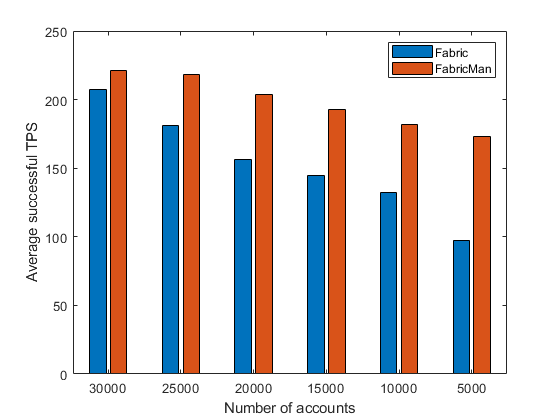
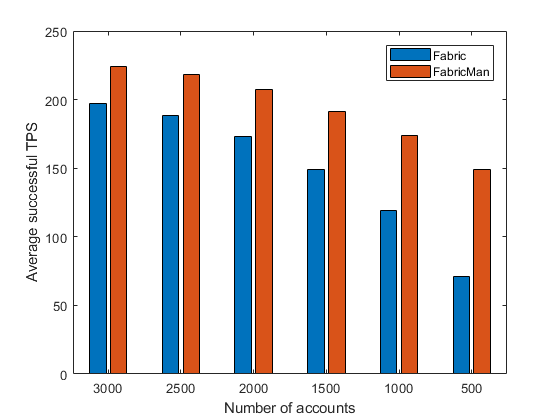
Site updated: 2024-02-23 18:17:11

diff --git a/Paper-FabricMan/index.html b/Paper-FabricMan/index.html
@@ -40,7 +40,7 @@
 <meta property="og:image" content="https://qanlyma.github.io/Paper-FabricMan/fig11.png">
 <meta property="og:image" content="https://qanlyma.github.io/Paper-FabricMan/fig12.png">
 <meta property="article:published_time" content="2023-01-18T05:20:09.000Z">
-<meta property="article:modified_time" content="2024-02-22T13:37:51.853Z">
+<meta property="article:modified_time" content="2024-02-23T09:43:34.487Z">
 <meta property="article:author" content="Qanly">
 <meta name="twitter:card" content="summary_large_image">
 <meta name="twitter:image" content="https://qanlyma.github.io/Paper-FabricMan/fig1.png">
@@ -274,7 +274,7 @@
               <p class="note note-info">
                 
                   
-                    本文最后更新于：1 分钟前
+                    本文最后更新于：33 分钟前
                   
                 
               </p>
@@ -313,7 +313,7 @@
 <p>Pingcheng Ruan[12] 等人研究了 Fabric++[5] 的方案，认为其没有考虑到跨区快交易之间的依赖性，重排序效果受限。他们提出了一种更细粒度并发控制策略下的重排序算法，并验证了其安全性，使得重排序效果得到提升。</p>
 <p>Qiucheng Sun[13] 等人分析了 Fabric++ 实现的重排序算法，在信任方面发现问题。并基于贪心算法提出了一个可信的重排序算法。</p>
 <h2 id="3-PROBLEM-ANALYSIS"><a href="#3-PROBLEM-ANALYSIS" class="headerlink" title="3 PROBLEM ANALYSIS"></a>3 PROBLEM ANALYSIS</h2><p>本章第一节主要介绍 EOV 架构中存在的两种 MVCC 冲突，namely within-block conflicts and cross-block conflicts，并分析产生这两种冲突的原因。第二节则分析 EOV 架构中的交易排序问题。</p>
-<h3 id="3-1-MVCC-Conflict"><a href="#3-1-MVCC-Conflict" class="headerlink" title="3.1 MVCC Conflict"></a>3.1 MVCC Conflict</h3><p>正如在第 2 章所提到的，Fabric 在执行阶段会生成交易的读写集。其中读集包含该交易读取的所有 key 的列表，以及相应的 version number。写集包含最终用于更新账本的键值对。在验证阶段，节点会根据本地数据库的当前状态对交易的读写集做 MVCC 验证。验证方法就是检测读集中的版本号是否与本地当前状态的版本号一致。若版本不一致，交易会被标记为无效，其写集无法被用于更新账本状态，此时便发生了 MVCC 冲突。值得注意的是，这些无效交易依旧会和有效交易一起被记录在链上。为了检测这一冲突对系统带来的影响，我们在第五章描述的环境配置下，使用 SmallBank[14] 智能合约在 Fanric v2.4 上进行了测试。我们改变合约中账户数量，从 5000 到 30000，并使用已有帐户随机触发 smallbank 合约中的交易，记录其有效以及中止交易的 TPS 如 Figure 2 所示。可见在总账户数量较小时，区块内交易冲突数量明显增加，系统性能下降。</p>
+<h3 id="3-1-MVCC-Conflict"><a href="#3-1-MVCC-Conflict" class="headerlink" title="3.1 MVCC Conflict"></a>3.1 MVCC Conflict</h3><p>正如在第 2 章所提到的，Fabric 在执行阶段会生成交易的读写集。其中读集包含该交易读取的所有 key 的列表，以及相应的 version number。写集包含最终用于更新账本的键值对。在验证阶段，节点会根据本地数据库的当前状态对交易的读写集做 MVCC 验证。验证方法就是检测读集中的版本号是否与本地当前状态的版本号一致。若版本不一致，交易会被标记为无效，其写集无法被用于更新账本状态，此时便发生了 MVCC 冲突。值得注意的是，这些无效交易依旧会和有效交易一起被记录在链上。为了检测这一冲突对系统带来的影响，我们在第五章描述的环境配置下，使用 SmallBank[14] 智能合约在 Fabric v2.4 上进行了测试。我们改变合约中账户数量，从 3000 到 500，并使用已有帐户随机触发 smallbank 合约中的交易，记录其有效以及中止交易的 TPS 如 Figure 2 所示。可见在总账户数量较小时，区块内交易冲突数量明显增加，系统性能下降。</p>
 <p><img src="/Paper-FabricMan/fig2.png" srcset="/img/loading.gif" lazyload alt="Figure 2"></p>
 <p>在高并发执行环境中，我们将产生 MVCC 冲突的原因分为两种：within-block conflicts and cross-block conflicts。</p>
 <p>Within-block conflicts 是发生在同一个区块不同交易之间的读写冲突。在构建区块时，如果将多个对同一个 key 进行读写的交易划分到同一区块中，就可能导致这一冲突。例如在之前的例子 Table 1 中，T1、T2、T3、T4 按顺序被打包到一个区块中。在验证阶段，T1 先对 k1 进行了更新操作，使其版本号变为 v2。接下来轮到验证 T2，它的读集中包含 v1 版本的 k1，在进行 MVCC 验证时发现 v1 ≠ v2，所以 T2 被标记为无效。同理 T3、T4 也会无效。Within-block conflicts 的根本原因是同一区块中两笔不同的交易对某个 key 进行了先写后读的操作，导致后一笔交易在验证读集时发生版本冲突。</p>
@@ -321,7 +321,7 @@
 <p><img src="/Paper-FabricMan/fig3.png" srcset="/img/loading.gif" lazyload alt="Figure 3"></p>
 <p>综合以上分析，我们决定在排序阶段引入一个重排序算法，针对同一个 key，先执行读集包含该 key 的交易，再执行写集包含该 key 的交易。以此减少 Within-block conflicts 中止的交易。同时在 orderer 中加入一个缓存机制，来储存每个 key 最新的版本号，如果遇到低于缓存版本的交易读集，则直接将其提前中止。以此提前解决 Cross-block conflicts 带来的问题。详细实现方案会在第 4 章介绍。</p>
 <h3 id="3-2-The-Problem-of-Ordering"><a href="#3-2-The-Problem-of-Ordering" class="headerlink" title="3.2 The Problem of Ordering"></a>3.2 The Problem of Ordering</h3><p>Fabric++ 使用了重排序来解决 Within-block conflicts。在排序阶段，Fabric++ 会记录 orderer 收到交易的读写集，并用它们生成交易冲突图。若想得到无冲突排序，则需要冲突图中无环。如 2.2 节所述，Fabric++ 使用 Tarjan[8] 的算法将冲突图划分为多个强连通子图，然后使用 Johnson[9] 的算法从中检测所有的环。通过不断删除在环中出现频率最高的交易，这个算法可以得到一个包含尽可能多交易的无环图。最后通过无环图构建一个无冲突排序用以出块。</p>
-<p>但是，在上述步骤中 Johnson 算法的时间复杂度是 O((n+e)(c+1))，其中 n 是节点数量，e 是边的数量，c 是图中环的数量。冲突图中节点和边的数量受图大小的限制，可以控制在较小的值。但是环的数量却没有限制，可能非常大。在第实验中我们发现，在相同配置条件下使用 Fabric++ 重排序算法，不同区块重排序的时间差异较大。当排序阶段交易冲突率增加时，重排序所需时间增加显著，甚至会无法完成正常出块。以 SmallBank[14] 智能合约为例，攻击者可以在少量账户之间高频率发送交易，从而使得重排序时间过长最终导致系统崩溃。文章[15] 也指出了类似的问题：Fabric++ 在解决环时，每删除一个交易都需要重新计算循环中单个事务的出现次数，这使得整个算法的时间复杂度来到 O(n^3)。</p>
+<p>但是，在上述步骤中 Johnson 算法的时间复杂度是 O((n+e)(c+1))，其中 n 是节点数量，e 是边的数量，c 是图中环的数量。冲突图中节点和边的数量受图大小的限制，可以控制在较小的值。但是环的数量却没有限制，可能非常大。在第五章实验中我们发现，在相同配置条件下使用 Fabric++ 重排序算法，不同区块重排序的时间差异较大。当排序阶段交易冲突率增加时，重排序所需时间增加显著，甚至会无法完成正常出块。以 SmallBank[14] 智能合约为例，攻击者可以在少量账户之间高频率发送交易，从而使得重排序时间过长最终导致系统崩溃。文章[15] 也指出了类似的问题：Fabric++ 在解决环时，每删除一个交易都需要重新计算循环中单个事务的出现次数，这使得整个算法的时间复杂度来到 O(n^3)。</p>
 <p>为了让算法执行时间更加稳定，我们在第 4 章基于拓扑排序提出了一种新的重排序算法，使得在交易冲突率较高的环境下系统依旧可以较快的完成重排序。</p>
 <h2 id="4-DESIGN-OF-FABRICMAN"><a href="#4-DESIGN-OF-FABRICMAN" class="headerlink" title="4 DESIGN OF FABRICMAN"></a>4 DESIGN OF FABRICMAN</h2><p>我们已经分析过 Fabric 和 Fabric++ 存在的问题及原因，接下来介绍我们是如何解决这些问题的。我们将设计的系统命名为 FabricMan。</p>
 <h3 id="4-1-Transaction-Reordering"><a href="#4-1-Transaction-Reordering" class="headerlink" title="4.1 Transaction Reordering"></a>4.1 Transaction Reordering</h3><p>在对一个交易集合 S 进行重排序时，首先需要识别交易间的依赖关系，来构建交易冲突图。在冲突图中，如果一笔交易 Ti 指向另一笔交易 Tj，则表示 Ti 的写集与 Tj 的读集有交集，记为 Ti → Tj。这表示在排序出块时，Tj 需要在 Ti 之前，否则 Tj 会因为读取过时的版本而被无效。在构建冲突图时，每一个节点代表一笔交易，由上述定义可知一个节点的出度表示该交易会影响多少个交易的有效性，入度表示受到多少其他交易的影响。此外，构建无冲突排序需要解决的一个重要问题就是图中出现的环。有环的图是无法进行序列化排序的，这需要我们在算法中移除一些交易来使原本的冲突图变为无环图。</p>
@@ -347,15 +347,15 @@
 <p>实验采用 smallbank 和自定义链码两种工作负载，并在 caliper-benchmarks [33] 测试框架下进行测试。smallbank 合约为每个用户创建一个支票账户和一个储蓄账户，包括六个函数，其中五个以某种方式更新账户余额：TransactSavings 和 DepositChecking 分别增加储蓄账户和支票账户的一定金额。SendPayment 在两个支票账户之间转移资金。WriteCheck 减少支票账户余额，而 Amalgamate 将所有资金从储蓄账户转移到支票账户。此外，还有一个只读事务 Query，它读取用户的支票账户和储蓄账户。在单次运行中，我们以相同的概率随机运行这六种函数中的一个，并随机选取某个或某两个系统中存在的账户进行交易。通过改变系统中账户数量，来控制区块内可能产生交易冲突的概率。而在自定义链码中主要包含三种交易函数：(1)简单的转账交易，对两个系统中存在的账户进行资产转移，这涉及到对两个账户的读和写；(2)简单读写交易，从系统中读取两个账户的余额并对其中一个进行修改，这涉及到两个账户的读和一个账户的写；(3)复杂读写交易，从系统中读取四个账户的余额并对其中两个进行修改，这涉及到四个账户的读和两个账户的写。设置不同账户数量的读写交易是为了满足实验在不同复杂度的交易类型下进行测试。</p>
 <h3 id="5-2-The-Impact-of-Blocksize"><a href="#5-2-The-Impact-of-Blocksize" class="headerlink" title="5.2 The Impact of Blocksize"></a>5.2 The Impact of Blocksize</h3><p>区块大小是影响区块链吞吐量和延迟的重要因素之一。为了给接下来的实验确定区块大小，并测试区块大小对不同系统的影响，我们首先研究改变区块大小对 Fabric 和 FabricMan 吞吐量的影响。我们使用 10,000 个账户随机触发 100,000 笔自定义链码的简单读写交易，在低冲突率的情况下测试了区块中包含交易数量从 16 到 1024 时两个系统的吞吐量，结果如 Figure 7 所示。</p>
 <p><img src="/Paper-FabricMan/fig7.png" srcset="/img/loading.gif" lazyload alt="Figure 7"></p>
-<p>为测试重排序时间对系统的影响，此实验中 FabricMan 仅加入了 4.1 节中的重排算法，可以看出算法对系统整体性能影响很小。随着区块内交易数量增加，FabricMan 中成功交易的吞吐量与 Fabric 差距越大。这是因为虽然实验在低冲突发生率的情况下进行，但同一区块内交易数量越多，发生冲突概率越大，重排作用越明显。在区块大小为 256 时两个系统吞吐量都到达峰值，再增加区块中的交易数会导致冲突交易变多，减少成功交易的吞吐量，并且较大的区块在系统中传输时间也会增加。因此在后续实验中，我们使用 256 作为区块中包含交易的最大数量，设置最大出块间隔为 1 秒，并将交易发送率设置为 2048&#x2F;s 以保证系统的待处理交易数量始终处于饱和状态。</p>
-<h3 id="5-3-The-Comparison-of-Reordering-Algorithm"><a href="#5-3-The-Comparison-of-Reordering-Algorithm" class="headerlink" title="5.3 The Comparison of Reordering Algorithm"></a>5.3 The Comparison of Reordering Algorithm</h3><p>为了检测本文提出的重排序算法性能，我准备了多个打包好的区块（每个区块中包含 256 笔交易），分别使用 FabricMan 和 Fabric++ 的重排序算法进行重排序，比较其排序时间和区块内最终有效交易的数量。在此实验中我们使用自定义链码的复杂读写交易来提高交易之间的关联性和冲突率，以更好的检测两种算法性能。我控制系统中账户数量从 1500 逐步减少到 1000，Figure 8 显示了两种算法对区块进行重排序的时间。可以看出 Fabric++ 在区块内冲突率增加时所需时间增长明显，在账户数量为 1000 的时候已经无法正常出块。并且实验中我们发现在同一轮次实验中（账户数量相同），Fabric++ 在不同区块排序时间差别巨大。而 FabricMan 重排算法时间稳定在 1500um 左右，不随着区块内交易冲突增加而发生明显变化。但是由于 FabricMan 的重排算法并不能像 Fabric++ 一样在每一轮选出存在最多环中的节点，所以最终成功交易略少于 Fabric++ 中的区块，如 Figure 9 所示。但是其稳定的时间复杂度可以让它在 1000 及一下账户数量的高冲突率环境中依旧正常出块。</p>
+<p>为测试重排序时间对系统的影响，此实验中 FabricMan 仅加入了 4.1 节中的重排算法，可以看出算法对系统整体性能影响很小。随着区块内交易数量增加，FabricMan 中成功交易的吞吐量与 Fabric 差距越大。这是因为虽然实验在低冲突发生率的情况下进行，但同一区块内交易数量越多，发生冲突概率越大，重排作用越明显。在区块大小为 256 时两个系统吞吐量都到达峰值，再增加区块中的交易数会导致冲突交易变多，减少成功交易的吞吐量，并且较大的区块在系统中传输时间也会增加。因此在后续实验中，我们使用 256 作为区块中包含交易的最大数量，设置最大出块间隔为 1 秒，并将交易发送率设置为每秒 512 笔。</p>
+<h3 id="5-3-The-Comparison-of-Reordering-Algorithm"><a href="#5-3-The-Comparison-of-Reordering-Algorithm" class="headerlink" title="5.3 The Comparison of Reordering Algorithm"></a>5.3 The Comparison of Reordering Algorithm</h3><p>为了检测本文提出的重排序算法性能，我们准备了多个打包好的区块（每个区块中包含 256 笔交易），分别使用 FabricMan 和 Fabric++ 的重排序算法进行重排序，比较其排序时间和区块内最终有效交易的数量。在此实验中我们使用自定义链码的复杂读写交易来提高交易之间的关联性和冲突率，以更好的检测两种算法性能。我们控制系统中账户数量从 1500 逐步减少到 1000，Figure 8 显示了两种算法对区块进行重排序的时间。可以看出 Fabric++ 在区块内冲突率增加时所需时间增长明显，在账户数量为 1000 的时候已经无法正常出块。并且实验中我们发现在同一轮次实验中（账户数量相同时），Fabric++ 在不同区块排序时间差别巨大。而 FabricMan 重排算法时间稳定在 1500us 左右，不随着区块内交易冲突增加而发生明显变化。但是由于 FabricMan 的重排算法并不能像 Fabric++ 一样在每一轮选出存在最多环中的节点，所以最终成功交易略少于 Fabric++ 中的区块，如 Figure 9 所示。但是其稳定的时间复杂度可以让它在 1000 及以下账户数量的高冲突率环境中依旧正常出块。</p>
 <p><img src="/Paper-FabricMan/fig8.png" srcset="/img/loading.gif" lazyload alt="Figure 8"></p>
 <p><img src="/Paper-FabricMan/fig9.png" srcset="/img/loading.gif" lazyload alt="Figure 9"></p>
-<h3 id="5-4-The-Effect-of-Parallel-Verification"><a href="#5-4-The-Effect-of-Parallel-Verification" class="headerlink" title="5.4 The Effect of Parallel Verification"></a>5.4 The Effect of Parallel Verification</h3><p>本节我们测试给 FabricMan 验证节点分配不同的 CPU 核心数量对并行验证时间的影响。系统需要使用大量的 CPU 资源进行节点身份的加密和解密运算，为了消除该部分的影响，我们对系统整体的吞吐量进行评估。我们使用一个打包好的区块，在 CPU 核心数为 1 到 16 的验证节点进行 MVCC 验证时间的模块化测试。测试结果如 Figure 10 所示。可以看出增加使用的核心数后，MVCC 验证时间有明显减少。而核心数到达 8 以上时间减少不明显，可能是该阶段与数据库交互或其他穿行操作成为瓶颈。</p>
+<h3 id="5-4-The-Effect-of-Parallel-Verification"><a href="#5-4-The-Effect-of-Parallel-Verification" class="headerlink" title="5.4 The Effect of Parallel Verification"></a>5.4 The Effect of Parallel Verification</h3><p>本节我们测试给 FabricMan 验证节点分配不同的 CPU 核心数量对并行验证时间的影响。由于许可区块链在进行节点身份的加密和解密运算时同样需要使用大量的 CPU 资源，这会影响到我们的实验结果。为了消除该部分的影响，我们使用多个打包好的区块，分别在 CPU 核心数为 1 到 16 的验证节点进行 MVCC 验证时间的模块化测试。测试结果如 Figure 10 所示。可以看出增加使用的核心数后，MVCC 验证时间有明显减少。而核心数到达 8 以上时间减少不明显，可能是该阶段与数据库交互或其他串行操作成为瓶颈。</p>
 <p><img src="/Paper-FabricMan/fig10.png" srcset="/img/loading.gif" lazyload alt="Figure 10"></p>
-<h3 id="5-5-The-Effect-of-Transaction-Merging"><a href="#5-5-The-Effect-of-Transaction-Merging" class="headerlink" title="5.5 The Effect of Transaction Merging"></a>5.5 The Effect of Transaction Merging</h3><p>本节对交易合并的功能进行测试。我们使用 500 个账户发送自定义链码的简单读写交易或转账交易，其中简单读写交易无法合并，而转账交易是可以进行合并的。发送转账交易的占比由 15% 逐步提升至 85%，比较 Fabric 和 FabricMan 系统中成功交易的占比 如 Figure 11 所示。转账交易占比较低时，FabricMan 因为使用重排序，成功交易的比例高于 Fabric。当转账交易占比增加，FabrciMan 中交易合并作用明显，成功交易比例增加。在转账交易占比 85% 时 FabricMan 中 90% 以上的交易都可以成功提交。而由于转账交易比简单读写交易多写一个账户，交易间关联性更强，所以随着转账交易占比增加 Fabric 中 MVCC 冲突数量增加，成功交易比例降低。</p>
+<h3 id="5-5-The-Effect-of-Transaction-Merging"><a href="#5-5-The-Effect-of-Transaction-Merging" class="headerlink" title="5.5 The Effect of Transaction Merging"></a>5.5 The Effect of Transaction Merging</h3><p>本节对交易合并的功能进行测试。我们使用 500 个账户发送自定义链码的简单读写交易或转账交易，其中简单读写交易无法合并，而转账交易是可以进行合并的。发送转账交易的占比由 15% 逐步提升至 85%，比较 Fabric 和 FabricMan 系统中成功交易的占比 如 Figure 11 所示。转账交易占比较低时，FabricMan 因为使用重排序，成功交易的比例高于 Fabric。当转账交易占比增加，FabrciMan 由于交易合并机制，成功交易比例增加。在转账交易占比 85% 时 FabricMan 中 90% 以上的交易都可以成功提交。而由于转账交易比简单读写交易多写一个账户，交易间关联性更强，所以随着转账交易占比增加 Fabric 中 MVCC 冲突数量增加，成功交易比例降低。</p>
 <p><img src="/Paper-FabricMan/fig11.png" srcset="/img/loading.gif" lazyload alt="Figure 11"></p>
-<h3 id="5-6-Combinations-of-Optimizations"><a href="#5-6-Combinations-of-Optimizations" class="headerlink" title="5.6 Combinations of Optimizations"></a>5.6 Combinations of Optimizations</h3><p>本节使用 smallbank 智能合约作为工作负载，并将第四章提到的所有优化应用于 FabricMan 系统，在不同账户数量下进行测试，与 Fabric 中成功交易的吞吐量进行对比结果如 Figure 12 所示。可见当账户数量从 30000 逐步减少到 5000，区块内交易冲突率不断增加时，Fabric 交易成功的吞吐量下降严重，只有不到最初一半的交易成功率。而 FabricMan 的交易成功吞吐量下降较为缓慢，在高并发冲突环境下仍能保持较高吞吐量。</p>
+<h3 id="5-6-Combinations-of-Optimizations"><a href="#5-6-Combinations-of-Optimizations" class="headerlink" title="5.6 Combinations of Optimizations"></a>5.6 Combinations of Optimizations</h3><p>本节使用 smallbank 智能合约作为工作负载，并将第四章提到的所有优化应用于 FabricMan 系统，在不同账户数量下进行测试，与 Fabric 中成功交易的吞吐量进行对比结果如 Figure 12 所示。可见当账户数量从 3000 逐步减少到 500，区块内交易冲突率不断增加时，Fabric 交易成功的吞吐量下降严重，只有不到最初一半的交易成功率。而 FabricMan 的交易成功吞吐量下降较为缓慢，在高并发冲突环境下仍能保持较高吞吐量。</p>
 <p><img src="/Paper-FabricMan/fig12.png" srcset="/img/loading.gif" lazyload alt="Figure 12"></p>
 <h2 id="6-CONCLUSION"><a href="#6-CONCLUSION" class="headerlink" title="6 CONCLUSION"></a>6 CONCLUSION</h2><p>本文针对新型的 EOV 区块链并发执行交易产生 MVCC 冲突影响性能的问题，提出了一种综合考虑块内冲突和块间冲突，并且能够进行并行验证和交易合并的区块链架构 FabicMan。针对块内冲突，本文提出一种比 Fabric++ 重排序算法在时间上更加稳定的算法对区块内交易重排序，增加交易验证的成功率。针对块间冲突，本文提出一种利用交易读写集和版本号在排序节点提前中止冲突交易的缓存机制。本文还提出使用交易冲突图信息在验证节点对无关交易并行验证，并且对简单的资产转移交易进行交易合并的方案，从而提升 EOV 区块链系统性能。实验结果表明 FabricMan 在吞吐量、交易成功率、执行时间等方面均优于对比方案。</p>
 <h2 id="参考文献"><a href="#参考文献" class="headerlink" title="参考文献"></a>参考文献</h2><p>[1] S. Nakamoto. 2008. Bitcoin: a peer-to-peer electronic cash system. <a target="_blank" rel="noopener" href="https://bitcoin.org/bitcoin.pdf">https://bitcoin.org/bitcoin.pdf</a>.</p>

diff --git a/ByteDance-1/index.html b/ByteDance-1/index.html
@@ -278,7 +278,7 @@
               <p class="note note-info">
                 
                   
-                    本文最后更新于：4 个月前
+                    本文最后更新于：5 个月前
                   
                 
               </p>

diff --git a/Project3-Deploy/index.html b/Project3-Deploy/index.html
@@ -260,7 +260,7 @@
               <p class="note note-info">
                 
                   
-                    本文最后更新于：2 天前
+                    本文最后更新于：3 天前
                   
                 
               </p>
